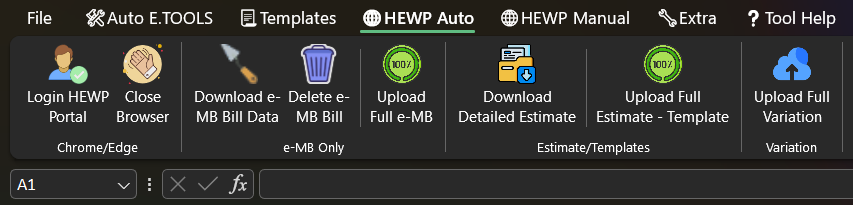
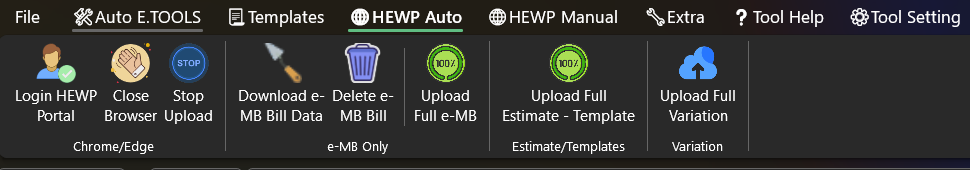
info update

diff --git a/README.md b/README.md
@@ -8,7 +8,7 @@
 [![YouTube](https://img.shields.io/badge/YouTube-Subscribe-red?style=for-the-badge&logo=youtube)](https://www.youtube.com/@HEWPTools)
 [![WhatsApp](https://img.shields.io/badge/WhatsApp-Contact-green?style=for-the-badge&logo=whatsapp)](https://wa.me/919728532828)
 
-**Speed up Estimate Preparation by 90%** with built-in templates, automation, and portal-compatible workflows.  
+**Speed up (Estimate/Bill/Variation/Consumption Preparation and Uploading on Portal) by 90%** with built-in templates, import Pdf, automation, and portal-compatible workflows.  
 Designed for **Engineers, Contractors and Department Employees**.
 
 <!-- 👆 Added version info from index.html -->
@@ -25,14 +25,14 @@ Designed for **Engineers, Contractors and Department Employees**.
 ---
 ## 📋 What is Estimation & Billing Tool (HEWP Tools)?
 
-Estimation & Billing Tool is a comprehensive automation Excel toolkit designed specifically for engineers and Contractor works for Offline Tender and Online **Haryana Engineering Works Portal (HEWP)**. It combines **Excel Tool**, **Chrome/Edge Extension**, and **web automation** to streamline Estimate Preparation, Material Quantity (Consumption) Preparation, BOQ Preparation, and online HEWP work.
+Estimation & Billing Tool is a comprehensive automation Excel toolkit designed specifically for engineers and Contractor works for Offline Tender and Online **Haryana Engineering Works Portal (HEWP)**. It combines **Excel Tool** and **web automation** to streamline Estimate Preparation, Material Quantity (Consumption) Preparation, BOQ Preparation, Variation Preparation and Online HEWP Upload work.
 
 ## 📋 Tools will help you in many ways but the major points are:
 
-1. **📊 Preparation of Estimates/Bills** - Create new professional Estimates/Bills or Import Pdf Estimates from the Portal to Excel with HSR 2023 rates and latest amendments.
-2. **🧱 Preparation of Material Consumption** - Generate accurate material quantity tables with District wise Material Rates instantly
+1. **📊 Preparation of Estimates/Bills** - Create new professional Estimates/Bills or Import Pdf of Estimates/Bills from the Portal to Excel with HSR 2023 rates and latest amendments.
+2. **🧱 Preparation of Material Consumption** - Generate accurate material quantity tables with District wise Material Rates and Labour Cost instantly
 3. **🔄 Do the Variation with Portal Data** - Compare and highlight differences between your data and HEWP portal data
-4. **📤 Upload Estimate/Bill to HEWP Portal** - One-click upload to HEWP portal with auto-login
+4. **📤 Upload Estimate/Bill/Variation to HEWP Portal** - One-click upload to HEWP portal.
 ---
 
 ## 👷 Who Can Use This Tool
@@ -59,16 +59,17 @@ Estimation & Billing Tool is a comprehensive automation Excel toolkit designed s
 ![E. Tools](https://raw.githubusercontent.com/mrgargsir/HEWP-Excel-Addins/main/snaps/etools.png)
 
 1. **Metal Weight Calculator** – Calculate Weight for any shape and any metal.
-2. **Find HSR Item** – Search for any Keyword in HSR and find the details.
-3. **Multiply and Get Quantity** – Multiply dimensions (Nos. x length × breadth × depth) with advance formula.
-4. **Total Quantity with intelligent Unit Converter** – It will do auto Total of one item number's quantities and put in row below, then auto convert to metric units where required and put in row below of total. Also, auto convert to steel kg if required.
-5. **Auto Rate & Description Fetcher** – Automatically pull Unit, Rates, Rate Type, and Descriptions from Latest HSR 2023 (Haryana Schedule of Rates) and Amendments and insert for each item.
-6. **Amount Calculator** – Compute amounts by multiplying rate × quantity. Also auto-calculates GST, contingency, and grand total with full sheet formatting. Apply the SR number to each item. Prepare Bill or Estimate in Good Format.
-7. **Steel Summary Generator** – Create a Dia Wise Steel Consumption summary in Kg at the bottom of the Bill/Estimate.
-8. **Abstract Bill Summary** - Generate a complete abstract Bill or estimate summary in a new worksheet, next to the active sheet.
-9. **Quantity of Materials Summary** – Generate a complete Material Consumption Summary at the bottom of the Bill/Estimate. A Detailed Material Quantity Table.
-10. **Bill Compare** - Generate a comparison of Portal Bill Data with your Excel Bill and get to know the final verdict of the comparison.
-11. **Bill Variation** - Generate a Variation of the Portal Bill Data and previously executed quantity, if any, with your Excel Bill or Final Bill and get the status of the data. also it will be used to upload Variation on the HEW Portal via Web Auto Tools.
+2. **Shapes Volume/Area** – Calculate Volume/area for any shape and import on selected row.
+3. **Find HSR Item** – Search for any Keyword in HSR and find the details.
+4. **Multiply and Get Quantity** – Multiply dimensions (Nos. x length × breadth × depth) with advance formula.
+5. **Total Quantity with intelligent Unit Converter** – It will do auto Total of one item number's quantities and put in row below, then auto convert to metric units where required and put in row below of total. Also, auto convert to steel kg if required.
+6. **Auto Rate & Description Fetcher** – Automatically pull Unit, Rates, Rate Type, and Descriptions from Latest HSR 2023 (Haryana Schedule of Rates) and Amendments and insert for each item.
+7. **Amount Calculator** – Compute amounts by multiplying rate × quantity. Also auto-calculates GST, contingency, and grand total with full sheet formatting. Apply the SR number to each item. Prepare Bill or Estimate in Good Format.
+8. **Steel Summary Generator** – Create a Dia Wise Steel Consumption summary in Kg at the bottom of the Bill/Estimate.
+9. **Abstract Bill Summary** - Generate a complete abstract Bill or estimate summary in a new worksheet, next to the active sheet.
+10. **Quantity of Materials Summary** – Generate a complete Material Consumption Summary at the bottom of the Bill/Estimate. A Detailed Material Quantity Table + Labour cost.
+11. **Bill Compare** - Generate a comparison of Portal Bill Data with your Excel Bill and get to know the final verdict of the comparison.
+12. **Bill Variation** - Generate a Variation of the Portal Bill Data and previously executed quantity, if any, with your Excel Bill or Final Bill and get the status of the data. also it will be used to upload Variation on the HEW Portal via Web Auto Tools.
 
 ---
 
@@ -78,7 +79,8 @@ Estimation & Billing Tool is a comprehensive automation Excel toolkit designed s
 ![Templates](https://raw.githubusercontent.com/mrgargsir/HEWP-Excel-Addins/main/snaps/templates.png)
 
 - **Blank Format** – Generate Blank Format for manual entry.
-- **Import Bill/Estimates** – Import Downloaded Detailed Estimates, Rough Estimates or Bill Pdf to Excel.
+- **Sample Format** – Generate Sample Format with all methods and keywords prefilled data.
+- **Import Bill/Estimates** – Import Downloaded Detailed Estimates, Rough Estimates, MB Bill or Variation Pdf in Excel with Proper BOQ Formating.
 - **Server Templates** – Access pre-built templates
 - **My Templates** – Manage your custom templates
 - **Add Template** – Create new templates
@@ -93,23 +95,28 @@ Estimation & Billing Tool is a comprehensive automation Excel toolkit designed s
 ### 🌐 Web Automation Features (Third Tab: **`HEWP WebAuto`**)
 
 ![HEWP Web Auto](https://raw.githubusercontent.com/mrgargsir/HEWP-Excel-Addins/main/snaps/webtools.png)
-![HEWP Web Manual](https://raw.githubusercontent.com/mrgargsir/HEWP-Excel-Addins/main/snaps/webtoolsm.png)
 
 **📤 With One-Click ease** 
 
-1. **Auto Login to HEWP Portal** – Securely log in with saved credentials and Keep Login details for future fast login. Login data is completely saved in your hard drive Excel file. You can verify it anytime.
+1. **Login to HEWP Portal** – Securely Filled saved credentials and Keep Login details for future fast fillup. Login data is completely saved in your hard drive Excel file. You can verify it anytime.
 2. **Close Chrome & Clean Resources** – Closes browser sessions and frees memory.
-3. **Copy Data to HEWP Templates** – Automatically convert unit to Meter if required and transfer data into the HEWP Excel template.
-4. **HSR Item Number Selector** – Select HSR item numbers on the HEWP Portal for filling and uploading bills or estimates data.
+3. **Stop Upload** – Stop any long upload in middle.
+4. **Download e-MB Bill Data** – Download complete bill data from the HEWP portal in Excel Format from HEWP, including a summary sheet.
+5. **Delete e-Mb Bill Data** – Remove all previously filled bill data items in one click on the HEWP portal.
+6. **Auto Upload Full Bill/e-MB** – Automatically upload The Whole Bill in the HEWP Portal.
+7. **Auto Upload Full Estimate/Templates** – Automatically upload The Whole Estimate or Template in the HEWP Portal.
+8. **Auto Upload Variation** - Automatically upload Full Variation (Add item, Increase Quantity, Remove item, Decrease quantity) to HEW Portal.
+
+![HEWP Web Manual](https://raw.githubusercontent.com/mrgargsir/HEWP-Excel-Addins/main/snaps/webtoolsm.png)
+
+1. **Copy Data to HEWP Templates** – Automatically convert unit to Meter if required and transfer data into the HEWP Excel template.
+2. **HSR Item Number Selector** – Select HSR item numbers on the HEWP Portal for filling and uploading bills or estimates data.
+3. **Emp Item Number Selector** – Select item numbers and Rate Type for Employee ID on HEWP Portal for filling and uploading estimates and variations.
+4. **Upload Template to Portal** – Upload your pre-filled template directly to the HEWP Portal.
 5. **PDF** – it will make a PDF of selected cells, attach and Upload With Manual Entry.
-6. **Upload Template to Portal** – Upload your pre-filled template directly to the HEWP Portal.
-7. **Direct Data Entry** – Skip the template; Enter data directly into the hewp portal Table.
-8. **Emp Item Number Selector** – Select item numbers and Rate Type for Employee ID on HEWP Portal for filling and uploading estimates and variations.
-9. **Download e-MB Bill Data** – Download completed bill data from the HEWP portal in Excel Format from HEWP, including a summary sheet.
-10. **Delete e-Mb Bill Data** – Remove all previously filled bill data items in one click on the HEWP portal.
-11. **Download Detailed Estimate** – Download Detailed Estimate Pdf in two clicks from the HEWP portal in Employee Login.
-12. **Auto Upload Full Bill/Template** – Automatically upload The Whole Bill for all Users at one click in the HEWP Portal.
-13. **Auto Upload Variation** - Automatically upload Full Variation (Add item, Increase Quantity, Remove item, Decrease quantity) to HEW Portal.
+6. **Direct Data Entry** – Skip the template; Enter data directly into the hewp portal Table.
+7. **Semi Auto Uploader e-MB** – Auto Upload one item at a time in e-MB in HEW Portal.
+8. **Semi Auto Uploader Estimate/template** – Auto Upload one item at a time in Estimate or Templates in HEW Portal.
 
 ---
 
@@ -130,7 +137,7 @@ Estimation & Billing Tool is a comprehensive automation Excel toolkit designed s
 10. **Steel Weight Calculator** – Manually convert running meters, Rebar Length to kilograms based on entered diameter and put this value below the selected total row cell.
 11. **Auto Round Off** – Dynamically apply the round-off formula to each selected cell. Existing Round off auto-update on apply.
 12. **HSR 2023/2021** - Open the HSR 2023 and 2021 PDF in your system.
-13. **Unit Adjust** - Set and Convert whole bill/Estimate's unit system.
+13. **Unit Transformation** - Set and Convert whole bill/Estimate's unit system.
 14. **Create Portal Summary** - Create Portal Summary, which will be used for Bill Compare/ Variations.
 
 ---
@@ -146,11 +153,13 @@ Estimation & Billing Tool is a comprehensive automation Excel toolkit designed s
 4. **Install RustDesk** - for Remote Support, install open source Rust Desk.
 5. **Install Metal Weight Calculator** - from Microsoft Store, install app.
 6. **Join WhatsApp Group** - Join the MRGARGSIR Tools community for all official updates on WhatsApp.
-7. **YouTube Videos** - Watch Tutorial Videos on Official YouTube Channel [@HEWPTools](https://www.youtube.com/@HEWPTools)
-8. **Get License** - Raise a request to get a License.
+7. **Say Hi on Whatsapp** - Direct Message us on WhatsApp.
+8. **YouTube Videos** - Watch Tutorial Videos on Official YouTube Channel [@HEWPTools](https://www.youtube.com/@HEWPTools)
 9. **Share Referral Code** - Share this tool with your friends and coworkers and get Benefits.
-10. **Update Material Rate/Gst** - Update Material Rates and Gst from your Consumption table.
-11. **Material Rate Editor** - Update Material Rates from all Material Tables.
+10. **Buy License** - Buy License from website.
+11. **Get Trial** - Raise a request to get a Free Trial License.
+12. **Update Material Rate/Gst** - Update Material Rates and Gst from your Consumption table.
+13. **Material Rate Editor** - Update Material Rates from all Material Tables.
 
 ---
 
@@ -162,24 +171,27 @@ Estimation & Billing Tool is a comprehensive automation Excel toolkit designed s
 1. **Unit System** – Set your unit system, you are working in (Imperial or metric).
 2. **Browser** - Choose your browser for Web Automation (Chrome or Microsoft Edge).
 3. **Details** - See your Filed Detail as Name, District, Mobile Number.
-4. **Reset Templates** - If Web Auto uploading Templates have any error then reset them with one click. But it will never happen.
-5. **Reset Rates** - Reset Rates if you have done something wrong.
-6. **Activate Licence** - New users can activate their licence from this.
-7. **License info** - Check your active Licence Info.
-8. **Reverify Licence** - if the licence does not sync with the server Auto then use this feature to sync in real time.
-9. **Change Licence Key** - Use this to Change your Licence Key.
-10. **Uninstaller** - Delete Licence and Disable Tool from Excel.
-11. **Tool Information** - Check Tool Info like Internal installed Version, Installer installed version, Tool name, visit website.
+4. **Auto Update** - Turn on or off auto install updates.
+5. **Reset Templates** - If Web Auto uploading Templates have any error then reset them with one click. But it will never happen.
+6. **Reset Rates** - Reset Rates if you have done something wrong.
+7. **Activate Licence** - New users can activate their licence from this.
+8. **License info** - Check your active Licence Info.
+9. **Reverify Licence** - if the licence does not sync with the server Auto then use this feature to sync in real time.
+10. **Change Licence Key** - Use this to Change your Licence Key.
+11. **Buy License** - Buy License from website.
+12. **Get Trial** - Raise a request to get a Free Trial License.
+13. **Uninstaller** - Delete Licence and Disable Tool from Excel.
+14. **Tool Information** - Check Tool Info like Internal installed Version, Installer installed version, Tool name, visit website.
 
 ---
    
-* **👍 Special Log Window For Excel Error to fix** - Your Data will be With 0% Error.
+
 ---
 
 
 # 2. **MRGARGSIR Chrome/Edge Extension (Free with Tool - No Extra Charges)**  
 
-🚀 **A productivity extension for HEWP (Haryana Engineering Works Portal)**  
+🚀 **A small independent productivity extension for HEWP (Haryana Engineering Works Portal)**  
 📌 **Developer:** **MRGARGSIR**  
 
 ## **🔧 Main Features of ChromeExtension**  
@@ -191,6 +203,10 @@ Estimation & Billing Tool is a comprehensive automation Excel toolkit designed s
 **☑ Toggle All Checkbox.**  – Select/deselect all items at once
 
 **🎯 Enter Button Fixes** (Pressing the Enter button will not clear the form on the HEWP portal anymore)  
+
+
+#3. **Other Extension**
+🚀 **A small independent utilities extension**  
 
 **🆕 Volume Increase** (Volume increase features when low volume media is a problem)  
 
@@ -225,7 +241,7 @@ Estimation & Billing Tool is a comprehensive automation Excel toolkit designed s
 
 ### ✅ INSTALLATION STEPS:
 1. 📂 Extract all files to a folder (if downloaded as zip)
-2. 🖱 Double-click ` Online Installer.exe`
+2. 🖱 Double-click ` OnlineInstaller.exe`
 3. ⚠ If Windows shows security warning, click **"More info"** → **"Run anyway"**
 4. ➡ Click **Next** → **Next** → **Auto Download** → **Next** → **Next** → **Install**
 5. ⏳ Wait for completion (1-2 minutes)
@@ -236,19 +252,14 @@ Estimation & Billing Tool is a comprehensive automation Excel toolkit designed s
 
 ### 🔑 YOUR INSTALL KEY:
 **[Unique key provided to each licensed user]**
+(if you do not have a Key, You can buy from Website)
 
 ---
 
 ## 🎥 Video Tutorials
 
-Complete step-by-step video tutorials available on our YouTube channel:
+[Tutorials available on our YouTube channel: https://www.youtube.com/@HEWPTools](https://www.youtube.com/@HEWPTools)
 
-### 📺 Tutorial Series:
-
-**[Complete Installation Walkthrough @HEWPTools](https://www.youtube.com/@HEWPTools)** – Full installation guide (5 min)
-
-
-🎬 **[Watch Full Playlist Here @HEWPTools](https://www.youtube.com/watch?v=AUGClE_q9IY&list=PLCbMlKNK4S80cjerEh8_Fy19SYs13wGXq&index=1)**
 
 ## 📄 Documents
 
@@ -302,7 +313,7 @@ Complete step-by-step video tutorials available on our YouTube channel:
 
 ### ✨ Benefits for Engineers:
 - ⚡ Prepare estimates 90% faster
-- ✅ Zero alignment errors in templates
+- ✅ Zero errors in templates
 - 📊 Professional HSR-compliant documents
 - 🔄 Easy variation management
 - 📤 Direct portal upload capability
@@ -328,7 +339,7 @@ Complete step-by-step video tutorials available on our YouTube channel:
 
 ## 🔖 SEO Keywords
 
-HEWP Excel Addins, HEWP tools, Excel addins, HEWP tutorials, HEWP WhatsApp, HEWP YouTube, Estimate, Estimation, billing, bill, boq, tools, boq tool, boq tools, boq mrgargsir, mrgargsir, tool by mrgargsir, tools by mrgargsir, estimates, excel addins, Add-ins, construction estimation software, building cost estimator, quantity surveyor tools, construction billing software, BOQ preparation tool, material estimation, construction project management, Excel automation tools, estimating software India, construction calculator Excel, rate analysis tool, construction costing software, building estimation tool, contractor billing software, civil engineering Excel tools, construction takeoff software, budget estimation tool, construction management Excel, project costing software, residential estimation, commercial estimation, construction quote generator, measurement sheet tool, cost analysis Excel addin, construction database tools, HSR database, QTY tracking, Excel VSTO addins, third party Excel tools, construction industry software, estimator tools, building quantity surveyor, construction documentation tools, Excel plugins for construction, automated estimation software, mrgargsir tools, hewp tool, hewp tools, hewptools, hewptool, mrgargsir store, billing tools, construction reporting tools.
+HEWP Excel Addins, HEWP tools, Excel addins, HEWP tutorials, HEWP WhatsApp, HEWP YouTube, Estimate, Estimation, billing, bill, boq, tools, boq tool, boq tools, boq mrgargsir, mrgargsir, tool by mrgargsir, tools by mrgargsir, estimates, excel addins, Add-ins, construction estimation software, building cost estimator, quantity surveyor tools, construction billing software, BOQ preparation tool, material estimation, construction project management, Excel automation tools, estimating software India, construction calculator Excel, rate analysis tool, construction costing software, building estimation tool, contractor billing software, civil engineering Excel tools, construction takeoff software, budget estimation tool, construction management Excel, project costing software, residential estimation, commercial estimation, construction quote generator, measurement sheet tool, cost analysis Excel addin, construction database tools, HSR database, QTY tracking, Excel VSTO addins, third party Excel tools, construction industry software, estimator tools, building quantity surveyor, construction documentation tools, Excel plugins for construction, automated estimation software, mrgargsir tools, hewp tool, hewp tools, hewptools, hewptool, mrgargsir store, billing tools, construction reporting tools, Purchase, Buy, Trial.
 
 Haryana Engineering Works Portal 
 HEWP ESTIMATE, BOQ, MEASUREMENT BOOK TEMPLATE, HSR 2023 WITH LATEST AMENDMENTS, REAL TIME SEARCH ITEM NO., AUTO UNIT CONVERTER, RATE, RATE TYPE, UNIT FETCHER, AUTO DATA COPY PASTE TO TEMPLATE, AUTO INTELLIGENT DATA ARRANGED IN TEMPLATES WITH 0% ERROR CHANCE, TEMPLATE EXCEL UPLOADER TO PORTAL, CHROME BOOKMARKS LINK FOR SHORTCUTS ON WEBSITE - SAVE LOTS OF TIME, SEARCH BAR FOR HSR ITEM NUMBER AND SEARCH BAR FOR TENDER And All DropDown ON HEWP PORTAL via Chrome Extension, ONE CLICK INSTALLER. Available for Both CONTRACTOR AND EMPLOYEE LOGINS.
